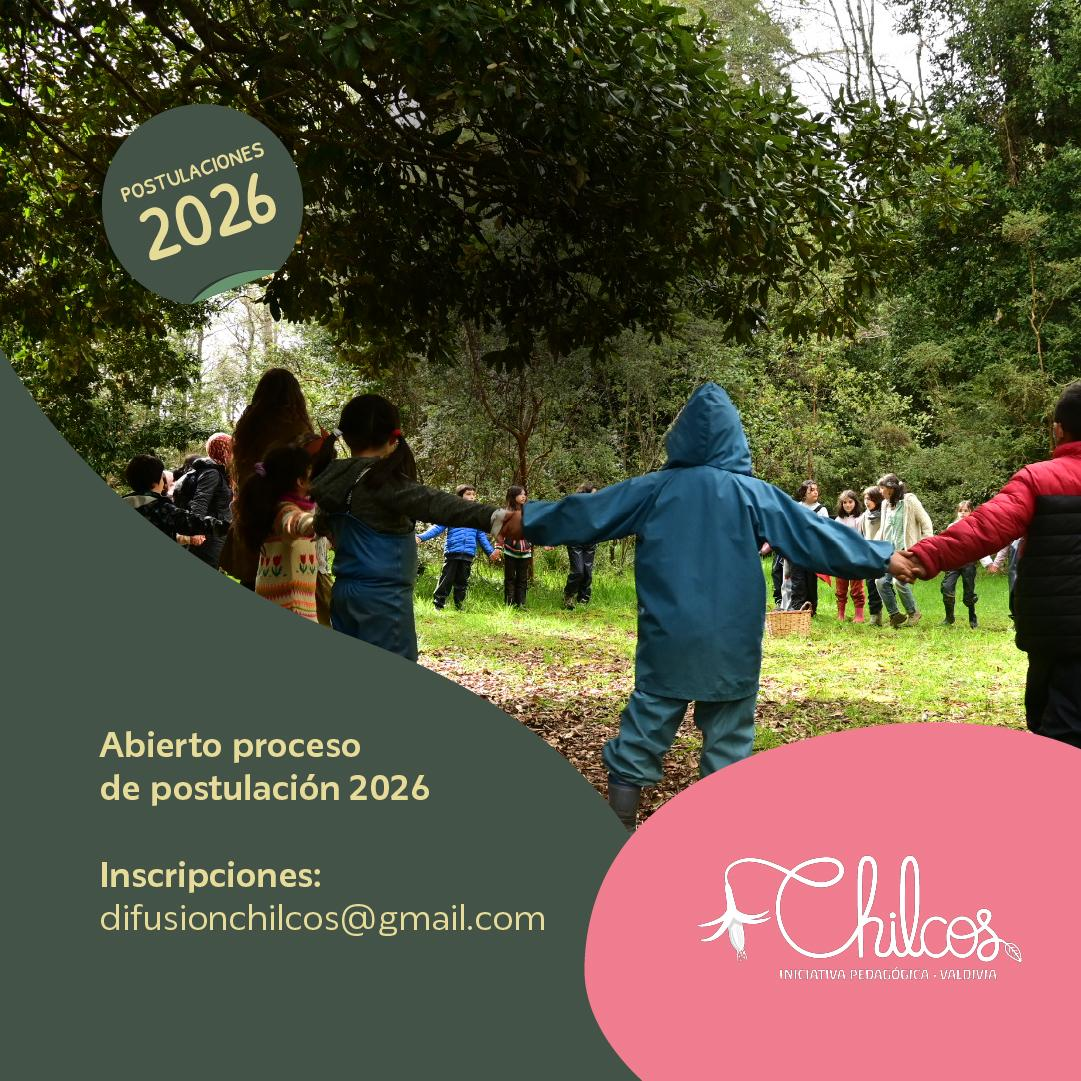
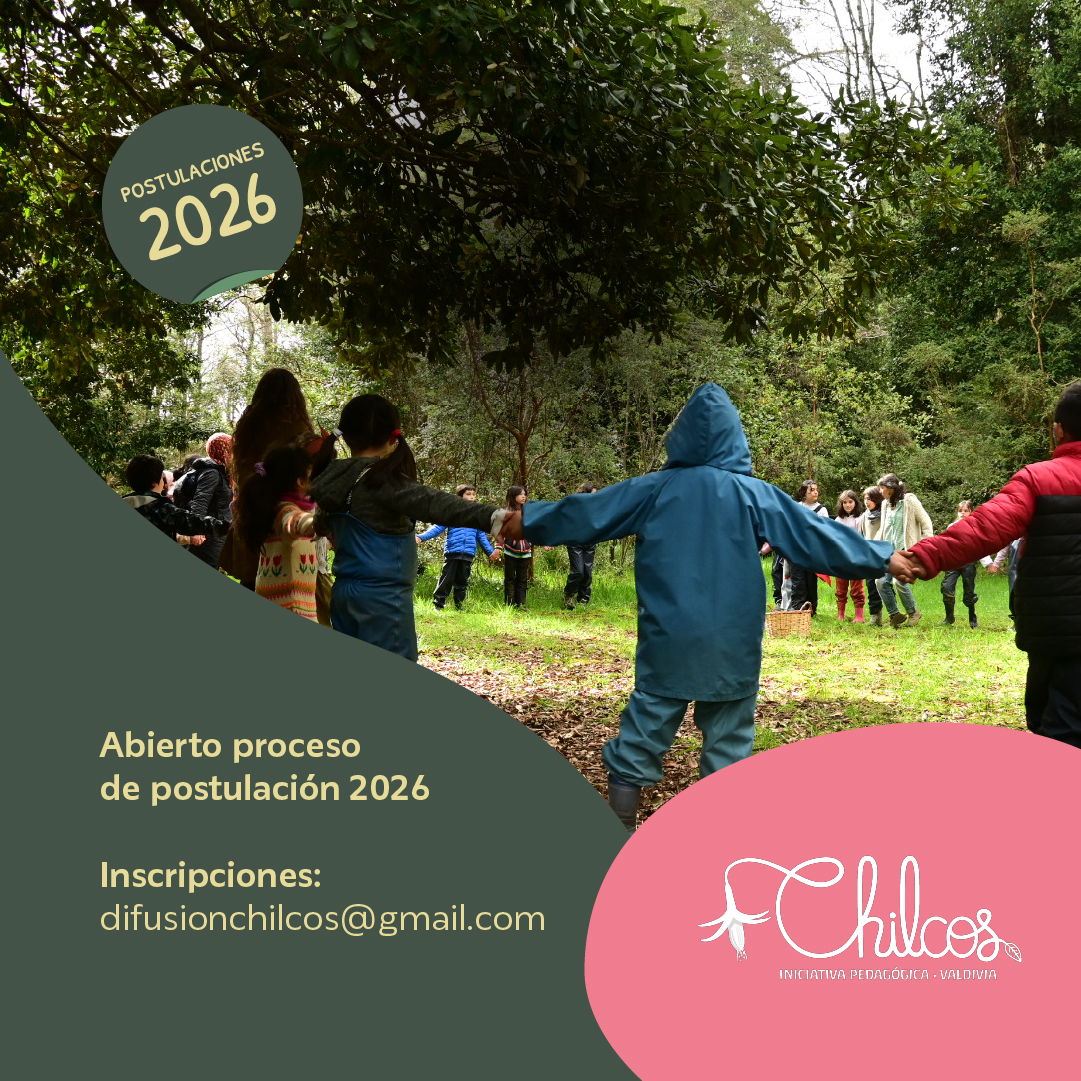
actualizacion imagenes

diff --git a/index.html b/index.html
@@ -47,7 +47,7 @@
                         <ul class="orbit-container">
                             <li class="is-active orbit-slide">
                                 <figure class="orbit-figure">
-                                    <a href="./postulacion.html"> <img class="orbit-image carrusel" src="./assets/img/web_chilcos_banner_1.jpeg" alt="Carrusel1"></a>
+                                    <a href="./postulacion.html"> <img class="orbit-image carrusel" src="./assets/img/web_chilcos_banner_1.jpg" alt="Carrusel1"></a>
                                 </figure>
                             </li>
                             <li class="orbit-slide">

diff --git a/assets/css/index.css b/assets/css/index.css
@@ -115,7 +115,7 @@ cite{
 }
 
 .bgImg{
-    background-image: url("../img/web_chilcos_bg.png");
+    background-image: url("../img/web_chilcos_bg.jpg");
     background-size: 100%;
     background-repeat: no-repeat;
     background-position-y: -180px;
